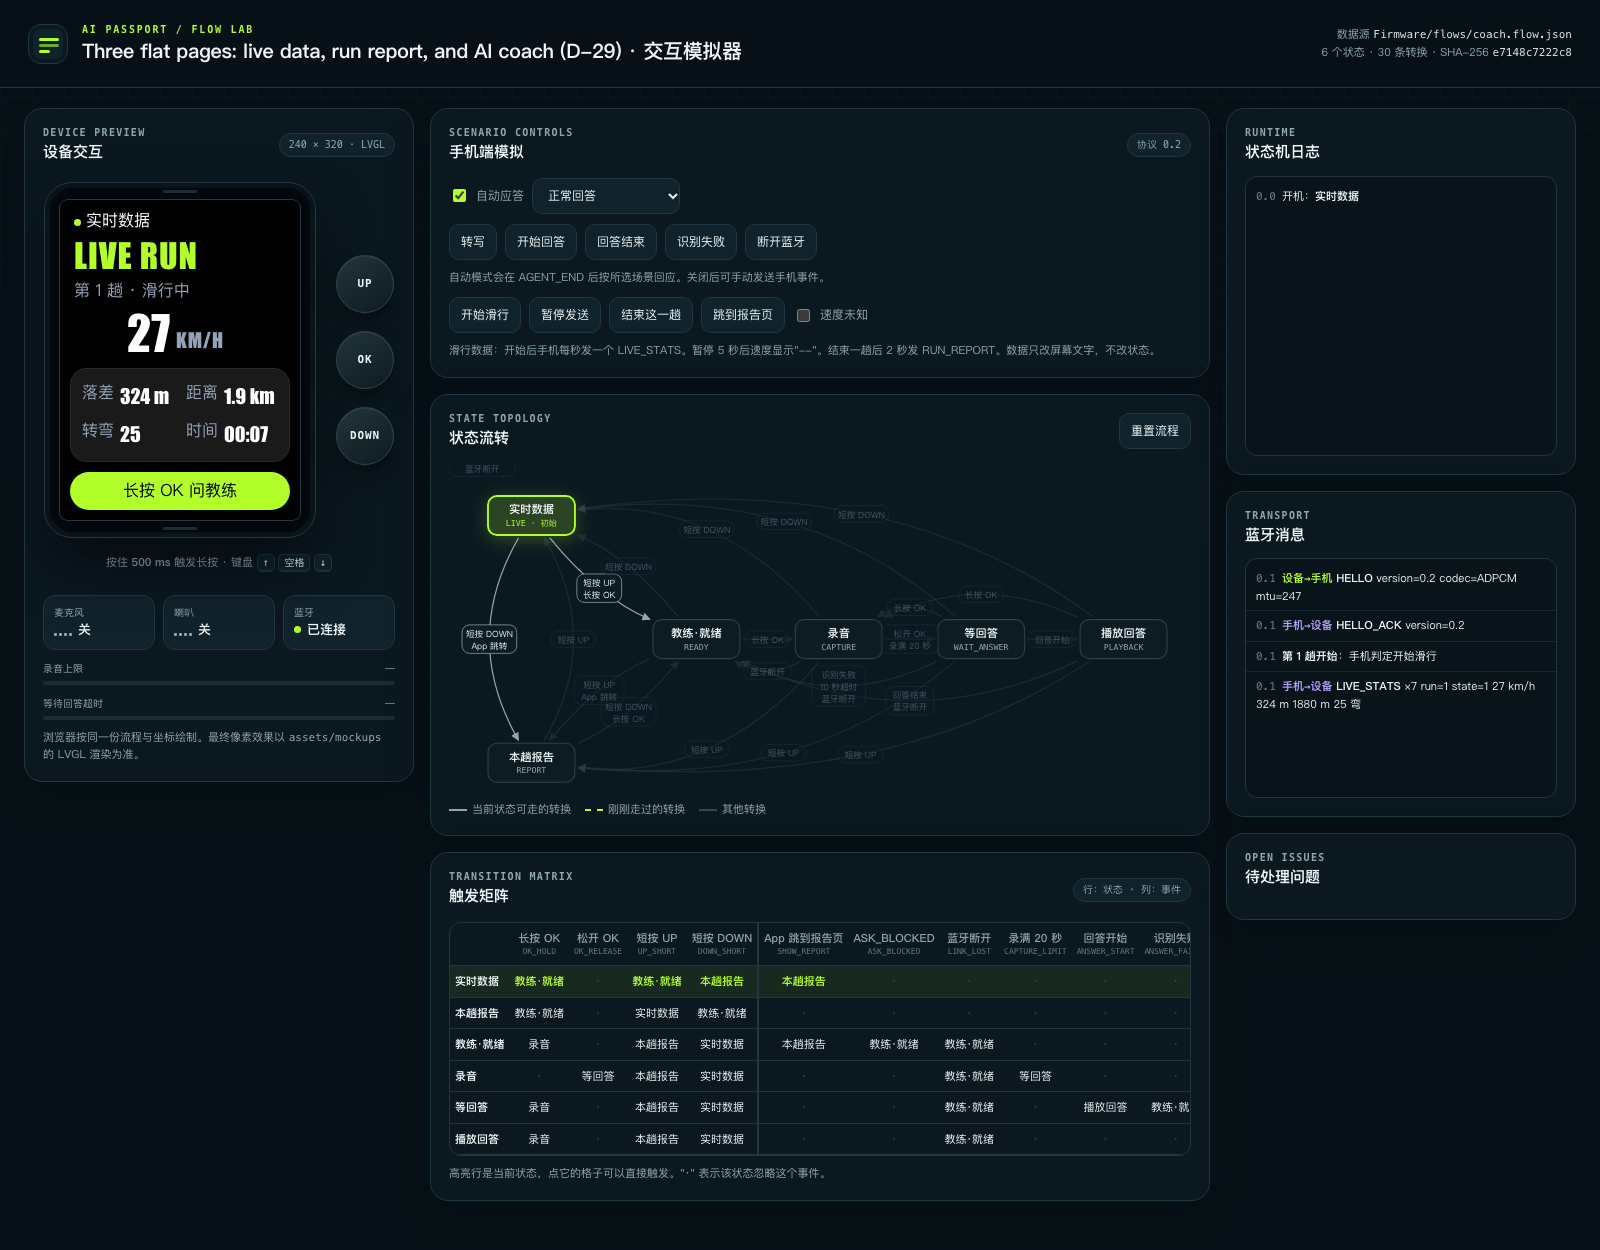
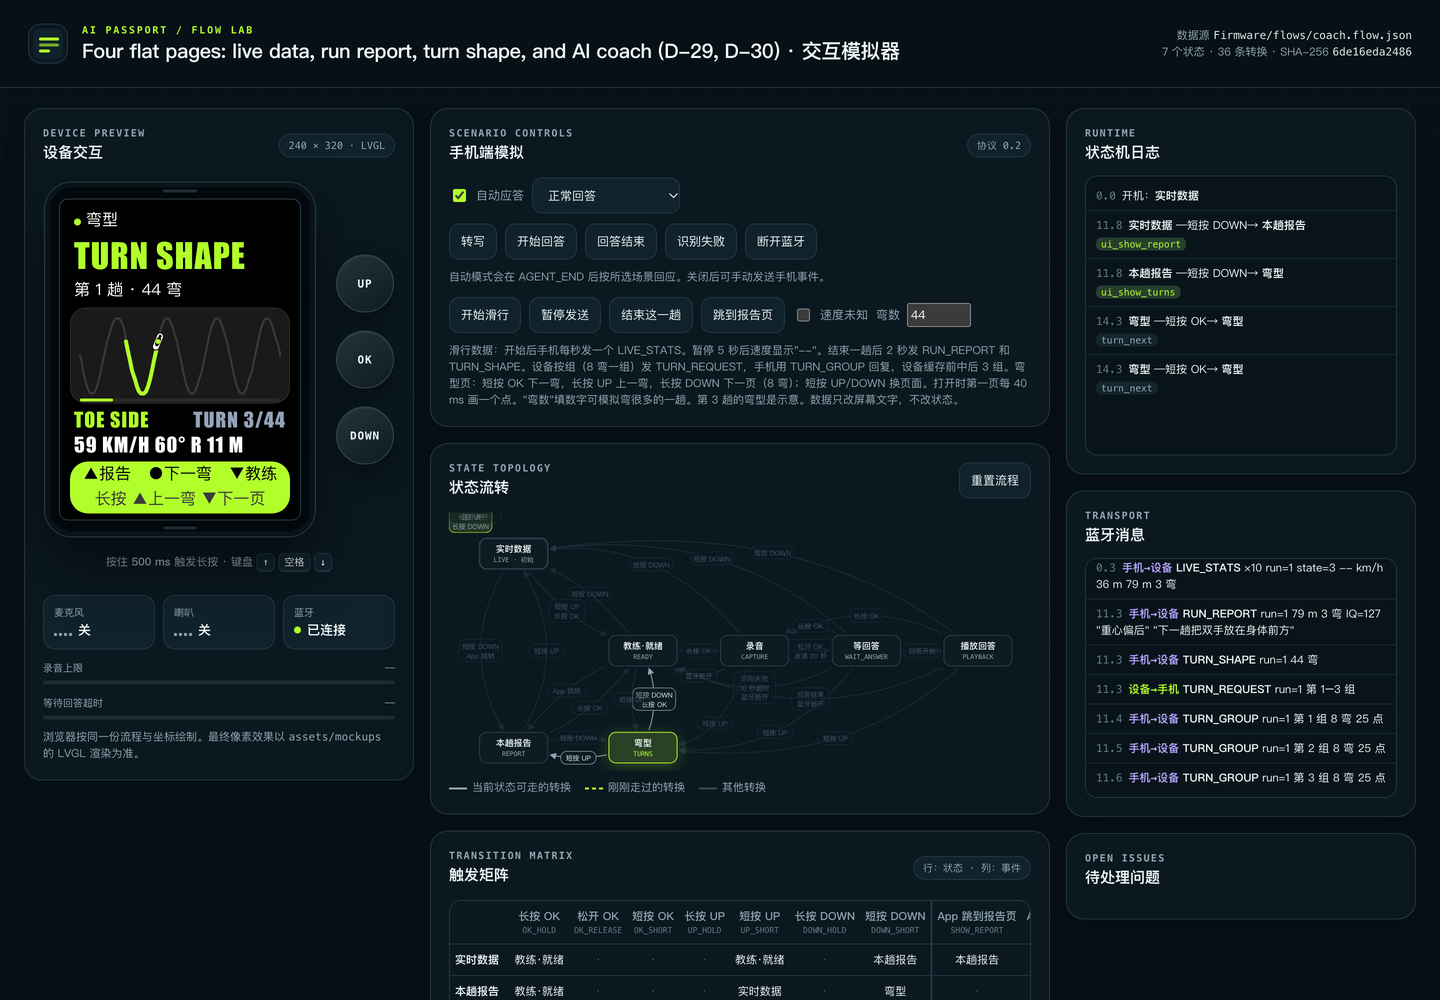
docs: Show the state machine and the simulator on the repository home page
- README: a Mermaid state diagram of the four pages. GitHub draws it.
- README: an animation of the Turns page, from the device drawing code
  (Firmware/tools/host_render/turns_gif.py).
- README: a link to the simulator on GitHub Pages, and a new screenshot.
- index.html opens the simulator. .nojekyll makes GitHub Pages serve
  the files as they are.
- README: four pages, Increment 3, the Heygo IQ range, and images 16
  to 21.

GitHub Pages must be on for the link: Settings, Pages, deploy from the
branch main, folder /.

diff --git a/index.html b/index.html
@@ -1,0 +1,19 @@
+<!doctype html>
+<html lang="zh-CN">
+<head>
+<meta charset="utf-8">
+<meta name="viewport" content="width=device-width, initial-scale=1">
+<title>Heygo AI Passport · 交互模拟器</title>
+<!-- GitHub Pages entry. It opens the interactive simulator at once. -->
+<meta http-equiv="refresh" content="0; url=assets/sim/coach-flow.html">
+<style>
+  body { margin: 0; min-height: 100vh; display: grid; place-items: center; background: #000; color: #fff;
+         font: 16px/1.6 -apple-system, "PingFang SC", "Noto Sans SC", sans-serif; }
+  a { color: #B1FE2B; }
+</style>
+</head>
+<body>
+  <p>正在打开交互模拟器……没有自动跳转时，请点 <a href="assets/sim/coach-flow.html">这里</a>。<br>
+     Opening the simulator. If nothing happens, open <a href="assets/sim/coach-flow.html">this link</a>.</p>
+</body>
+</html>

diff --git a/Firmware/tools/host_render/turns_gif.py b/Firmware/tools/host_render/turns_gif.py
@@ -1,0 +1,59 @@
+#!/usr/bin/env python3
+"""turns_gif - make an animation of the Turns page with the device drawing code.
+
+It uses the renderer of render.py (LVGL with the device settings), so each frame shows
+the real pixels. The run has 44 turns, as `phone_sim.py --turns 44` sends.
+
+  1. The page opens and draws the first page point by point.
+  2. The rider replays turn 1.
+  3. OK selects turn 2 and turn 3. The rider replays each of them.
+
+Output: ../assets/sim/turns-demo.gif (480 x 640, 2x scale).
+Run in Firmware: python3 tools/host_render/turns_gif.py  (needs Pillow)
+"""
+import subprocess
+import sys
+from pathlib import Path
+
+HERE = Path(__file__).resolve().parent
+sys.path.insert(0, str(HERE))
+import render  # noqa: E402
+
+from PIL import Image  # noqa: E402
+
+RUN, TURNS = 4, 44
+OUT = render.ASSETS / "sim" / "turns-demo.gif"
+
+
+def frames():
+    """(name, shape command, duration in ms) for each frame."""
+    out = []
+    pts = 3 * 8 + 1
+    for drawn in range(1, pts + 1):                       # The first page draws: one point each 40 ms.
+        out.append((f"d{drawn:02}", render.shape(RUN, 0, TURNS, 0, drawn=drawn), 60))
+    for sel in (0, 1, 2):                                # The rider replays turns 1, 2, and 3.
+        for permille in range(0, 1001, 100):
+            out.append((f"t{sel}_{permille:04}", render.shape(RUN, 0, TURNS, sel, permille=permille), 110))
+        out[-1] = out[-1][:2] + (900,)                   # A short stop at the end of each turn.
+    return out
+
+
+def main():
+    exe = render.build((render.FW / "sdkconfig").resolve())
+    raw = render.BUILD / "gif"
+    raw.mkdir(parents=True, exist_ok=True)
+    seq = frames()
+    cmds = ["screen turns"]
+    for name, shape, _ in seq:
+        cmds += [f"shape {shape}", f"snap {name}"]
+    r = subprocess.run([str(exe), str(raw)], input="\n".join(cmds) + "\n", capture_output=True, text=True)
+    if r.returncode or "ERR" in r.stdout:
+        sys.exit(f"ERROR: render failed\n{r.stdout}\n{r.stderr}")
+    imgs = [render.to_png(raw / f"{name}.rgb565").resize((480, 640), Image.NEAREST) for name, _, _ in seq]
+    pal = [im.convert("P", palette=Image.ADAPTIVE, colors=64) for im in imgs]
+    pal[0].save(OUT, save_all=True, append_images=pal[1:], duration=[d for _, _, d in seq], loop=0, optimize=True)
+    print(f"Wrote {len(pal)} frames to {OUT} ({OUT.stat().st_size} bytes)")
+
+
+if __name__ == "__main__":
+    main()

diff --git a/README.md b/README.md
@@ -5,7 +5,7 @@
 # Heygo AI Passport
 
 This is the project repository of Heygo AI Passport.
-The device has three pages at one level: live data, run report, and AI coach. Short UP and DOWN presses change the page. An OK hold on any page opens the Coach page.
+The device has four pages at one level: live data, run report, turn shape, and AI coach. Short UP and DOWN presses change the page. An OK hold on any page opens the Coach page.
 The device connects to a phone over BLE. The phone does speech recognition, speech synthesis, the ski data, and the AI coach. The device does the buttons, the microphone, the speaker, and the screen.
 
 ## What the device does
@@ -13,16 +13,21 @@ The device connects to a phone over BLE. The phone does speech recognition, spee
 | Increment | Function | Status |
 | --- | --- | --- |
 | Increment 1: Coach voice | An OK hold on any page opens the Coach page. Another OK hold asks the AI coach. The device plays the answer. | Code done. Device tests NOT RUN. |
-| Increment 2: ski data and reports | During a run, show the speed, vertical drop, distance, turns, and time. After each run, show the Heygo IQ, the core problem, and one short tip. | Code done. Device tests NOT RUN. |
+| Increment 2: ski data and reports | During a run, show the speed, vertical drop, distance, turns, and time. After each run, show the Heygo IQ (0 to 200), the core problem, and one short tip. | Code done. Device tests NOT RUN. |
+| Increment 3: turn shape | After each run, draw the line of the run, 8 turns at a time. OK selects the next turn. An UP hold selects the previous turn. A DOWN hold goes to the next page. | Code done. Device tests NOT RUN. |
 
 The BLE protocol is version 0.2. The phone application team accepted it.
 On `main`, the firmware gate `./tools/validate.sh` gives exit code 0.
 
 ## Interactive simulator
 
-![Interactive simulator](assets/sim/preview.png)
+**Try it in the browser: [https://azuresword.github.io/Heygo-AiPassport/](https://azuresword.github.io/Heygo-AiPassport/)**
 
-`assets/sim/coach-flow.html` is a single web page. Use it on a computer to try the buttons and the pages of the device.
+The link opens `assets/sim/coach-flow.html` through GitHub Pages. You can press the buttons of the device there.
+
+[![Interactive simulator](assets/sim/preview.png)](https://azuresword.github.io/Heygo-AiPassport/)
+
+`assets/sim/coach-flow.html` is a single web page. You can also download it and open it on a computer.
 It needs no server and no network.
 
 - On the left are the device screen and the three buttons. A press of 500 ms is a hold. The keys Up, Space, and Down are UP, OK, and DOWN.
@@ -40,9 +45,42 @@ The flow graph `Firmware/flows/coach.flow.json` makes the page. The firmware use
 Do not edit the page by hand. After a change to the flow graph, run `python3 tools/flow/flow_sim.py` in `Firmware`.
 The browser draws the screen with system fonts. The images in `assets/mockups` show the real pixels.
 
+## State machine
+
+GitHub draws this diagram from the text. The interactive simulator shows every transition.
+
+```mermaid
+stateDiagram-v2
+    direction LR
+    [*] --> LIVE
+    LIVE --> REPORT: DOWN
+    REPORT --> TURNS: DOWN
+    TURNS --> READY: DOWN
+    READY --> LIVE: DOWN
+    LIVE --> READY: UP
+    READY --> TURNS: UP
+    TURNS --> REPORT: UP
+    REPORT --> LIVE: UP
+    LIVE --> READY: OK hold
+    REPORT --> READY: OK hold
+    TURNS --> READY: OK hold
+    TURNS --> TURNS: OK / UP hold / DOWN hold
+    READY --> CAPTURE: OK hold
+    CAPTURE --> WAIT_ANSWER: OK release
+    WAIT_ANSWER --> PLAYBACK: answer starts
+    PLAYBACK --> READY: answer ends
+```
+
+## Turns page
+
+<img src="assets/sim/turns-demo.gif" width="240" alt="Turns page animation">
+
+The device drawing code makes this animation: `Firmware/tools/host_render/turns_gif.py`.
+The page draws the first 8 turns point by point. Then the rider replays turns 1, 2, and 3.
+
 ## Screen images
 
-LVGL draws the 14 images in `assets/mockups` on a computer with the device settings. They are not drawings.
+LVGL draws the 20 images in `assets/mockups` on a computer with the device settings. They are not drawings.
 [contact-sheet.png](assets/mockups/contact-sheet.png) shows all of them in one image.
 
 | Images | Content |
@@ -50,6 +88,7 @@ LVGL draws the 14 images in `assets/mockups` on a computer with the device setti
 | 01–08 | The live data page with no data, and each Coach page state |
 | 10–12 | Ski data during a run, out-of-date data, and the report after a run |
 | 13–15 | The Report page: no report, a report, and the longest texts |
+| 16–21 | The Turns page. 16: no shape. 17: the first page draws. 18: a heel side turn. 19: a schematic run of 255 turns. 20: a page that is on its way. 21: a run of one page. |
 
 ## Folders
 

diff --git a/README.zh_CN.md b/README.zh_CN.md
@@ -5,7 +5,7 @@
 # Heygo AI Passport
 
 这是 Heygo AI Passport 的项目仓库。
-设备有三个平级页面：实时数据、本趟报告、AI 教练。短按 UP/DOWN 翻页，任何页面长按 OK 打开教练页。
+设备有四个平级页面：实时数据、本趟报告、弯型、AI 教练。短按 UP/DOWN 翻页，任何页面长按 OK 打开教练页。
 设备通过蓝牙连接手机。手机负责语音识别、语音合成、滑行数据和 AI 教练。设备负责按键、麦克风、喇叭和屏幕。
 
 ## 设备做什么
@@ -13,16 +13,21 @@
 | 增量 | 功能 | 状态 |
 | --- | --- | --- |
 | 增量 1：教练语音 | 在任何页面长按 OK 打开教练页，再按住 OK 向 AI 教练提问，设备播放回答。 | 代码已完成。设备测试未运行。 |
-| 增量 2：滑行数据与报告 | 滑行时显示速度、落差、距离、转弯和时间。每趟结束后显示 Heygo IQ、核心问题和一条小建议。 | 代码已完成。设备测试未运行。 |
+| 增量 2：滑行数据与报告 | 滑行时显示速度、落差、距离、转弯和时间。每趟结束后显示 Heygo IQ（0 至 200）、核心问题和一条小建议。 | 代码已完成。设备测试未运行。 |
+| 增量 3：弯型 | 每趟结束后画出这一趟的线路，一次 8 个弯。OK 选中下一弯，长按 UP 选中上一弯，长按 DOWN 跳到下一页。 | 代码已完成。设备测试未运行。 |
 
 蓝牙协议为 0.2 版，手机应用团队已确认。
 固件门禁 `./tools/validate.sh` 在 `main` 上的结果是退出码 0。
 
 ## 交互模拟器
 
-![交互模拟器](assets/sim/preview.png)
+**在浏览器里直接试用：[https://azuresword.github.io/Heygo-AiPassport/](https://azuresword.github.io/Heygo-AiPassport/)**
 
-`assets/sim/coach-flow.html` 是一个单文件网页，用来在电脑上试用设备的按键和页面。
+这个链接通过 GitHub Pages 打开 `assets/sim/coach-flow.html`，可以在网页上直接按设备的按键。
+
+[![交互模拟器](assets/sim/preview.png)](https://azuresword.github.io/Heygo-AiPassport/)
+
+`assets/sim/coach-flow.html` 是一个单文件网页，也可以下载后在电脑上打开。
 它不需要服务器，也不需要联网。
 
 - 左侧是设备屏幕和三个按键。按住 500 ms 算长按。键盘的 ↑、空格、↓ 对应 UP、OK、DOWN。
@@ -40,9 +45,42 @@ open assets/sim/coach-flow.html
 不要手工修改这个页面。修改流程图后，在 `Firmware` 里运行 `python3 tools/flow/flow_sim.py`。
 浏览器用系统字体绘制屏幕。真实像素以 `assets/mockups` 里的图片为准。
 
+## 状态机
+
+GitHub 会根据下面的文本直接画出状态图。每一条转移都可以在交互模拟器里试。
+
+```mermaid
+stateDiagram-v2
+    direction LR
+    [*] --> LIVE
+    LIVE --> REPORT: DOWN
+    REPORT --> TURNS: DOWN
+    TURNS --> READY: DOWN
+    READY --> LIVE: DOWN
+    LIVE --> READY: UP
+    READY --> TURNS: UP
+    TURNS --> REPORT: UP
+    REPORT --> LIVE: UP
+    LIVE --> READY: OK hold
+    REPORT --> READY: OK hold
+    TURNS --> READY: OK hold
+    TURNS --> TURNS: OK / UP hold / DOWN hold
+    READY --> CAPTURE: OK hold
+    CAPTURE --> WAIT_ANSWER: OK release
+    WAIT_ANSWER --> PLAYBACK: answer starts
+    PLAYBACK --> READY: answer ends
+```
+
+## 弯型页
+
+<img src="assets/sim/turns-demo.gif" width="240" alt="弯型页动画">
+
+这段动画由设备的绘制代码生成：`Firmware/tools/host_render/turns_gif.py`。
+弯型页先逐点画出前 8 个弯，小精灵再依次重放第 1、2、3 弯。
+
 ## 界面效果图
 
-`assets/mockups` 里的 14 张图由 LVGL 在电脑上按设备配置绘制，不是手绘稿。
+`assets/mockups` 里的 20 张图由 LVGL 在电脑上按设备配置绘制，不是手绘稿。
 [contact-sheet.png](assets/mockups/contact-sheet.png) 把它们放在一张图里。
 
 | 图片 | 内容 |
@@ -50,6 +88,7 @@ open assets/sim/coach-flow.html
 | 01–08 | 实时数据页的等待状态，以及教练页的各个状态 |
 | 10–12 | 滑行中的数据、数据过期、一趟结束后的报告 |
 | 13–15 | 报告页：没有报告、有报告、最长文本 |
+| 16–21 | 弯型页：没有弯型、第一页正在画、一个 HEEL SIDE 弯、255 弯的示意弯型、某一页还在路上、只有一页的一趟 |
 
 ## 文件夹
 

diff --git a/Firmware/docs/heygo-changes.zh_CN.md b/Firmware/docs/heygo-changes.zh_CN.md
@@ -278,7 +278,7 @@ D-29 去掉滑行模式、休息模式和退出确认，改为三个平级页面
 | `main/coach_app.c` | 打开时画出第一页，每 40 ms 一个点。OK 和两个长按逐弯移动光标。CONTEXT 在弯型页时发送模式 0、页面 5。 |
 | `../assets/fonts/heygo_display_*.c` | 三个品牌字体加入立刃角用的"°"字形。 |
 | `tools/phone_sim/`、`tools/flow/flow_sim.*` | 两者都在每份报告之后发送示例弯型，并回复每个 TURN_REQUEST。`--turns N` 和模拟器的弯数输入框可模拟弯很多的一趟。第 3 趟发送示意弯型。 |
-| `tools/host_render/` | 新增 `shape` 命令，以及 16 至 21 号界面图。 |
+| `tools/host_render/` | 新增 `shape` 命令，以及 16 至 21 号界面图。`turns_gif.py` 生成动画 `../assets/sim/turns-demo.gif`。 |
 
 弯型页占用 LVGL 内存池 16,824 字节。页面和数据约占 4.0 KB 静态内存。
 

diff --git a/Firmware/docs/heygo-changes.md b/Firmware/docs/heygo-changes.md
@@ -278,7 +278,7 @@ The top left of each page shows the page name in Chinese: live data, run report,
 | `main/coach_app.c` | It draws the first page, one point each 40 ms. OK and the holds move a cursor from turn to turn. On the Turns page, CONTEXT sends mode 0 and page 5. |
 | `../assets/fonts/heygo_display_*.c` | The three brand fonts add the "°" glyph for the edge angle. |
 | `tools/phone_sim/`, `tools/flow/flow_sim.*` | Both send a demo shape after each report, and answer each TURN_REQUEST. `--turns N` and the simulator field set a long run. Run 3 sends a schematic shape. |
-| `tools/host_render/` | Add the `shape` command and screen images 16 to 21. |
+| `tools/host_render/` | Add the `shape` command and screen images 16 to 21. `turns_gif.py` makes the animation `../assets/sim/turns-demo.gif`. |
 
 The Turns page uses 16,824 bytes of the LVGL pool. The page and the data use about 4.0 KB of static RAM.
 

diff --git a/assets/README.md b/assets/README.md
@@ -22,6 +22,7 @@ The firmware in `../Firmware` compiles the fonts from this folder.
 | `tools/gen_sprite.py` | Makes the rider sprite. |
 | `mockups/` | Screen images from the host screen check. `compare-A-B.png` shows the two design options. Version B is in use. |
 | `sim/coach-flow.html` | Interactive simulator of the Coach flow. |
+| `sim/turns-demo.gif` | An animation of the Turns page. `Firmware/tools/host_render/turns_gif.py` makes it with the device drawing code. |
 
 ## Fonts
 

diff --git a/assets/README.zh_CN.md b/assets/README.zh_CN.md
@@ -22,6 +22,7 @@
 | `tools/gen_sprite.py` | 生成小精灵图。 |
 | `mockups/` | 主机界面检查生成的屏幕图片。`compare-A-B.png` 是两个设计方案的对比，目前采用 B 版。 |
 | `sim/coach-flow.html` | Coach 流程的交互模拟器。 |
+| `sim/turns-demo.gif` | 弯型页动画。由 `Firmware/tools/host_render/turns_gif.py` 用设备的绘制代码生成。 |
 
 ## 字体
 
